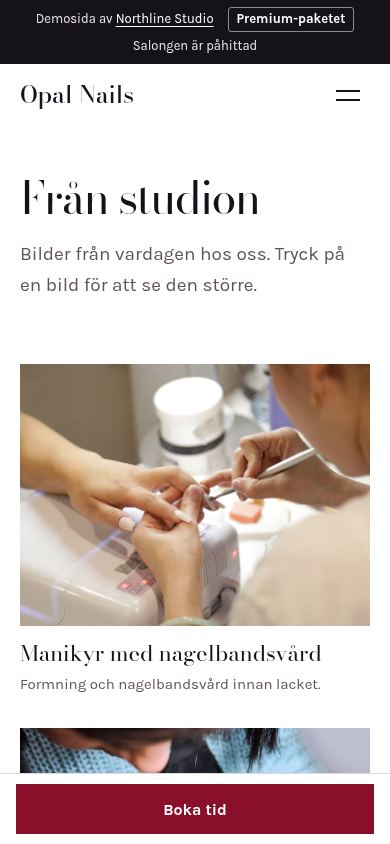
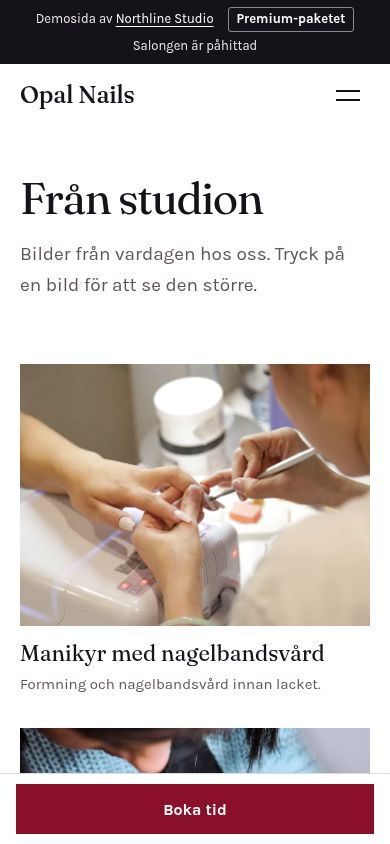
Startsida: nya bilder av Opal Nails med det nya typsnittet
Claude-Session: https://claude.ai/code/session_01LdaxLP72ybHRKE178dbyFp

diff --git a/index.html b/index.html
@@ -180,8 +180,8 @@
       </div>
 
       <div class="wrap hero__show" data-load style="--d:520ms">
-        <div class="screen screen--desk hero__desk"><img src="assets/demo-opal-dator.jpg" width="1440" height="900" alt="Demosidan Opal Nails i dator" fetchpriority="high"></div>
-        <div class="screen screen--phone hero__phone"><span class="screen__inner"><img src="assets/demo-opal-mobil.jpg" width="390" height="844" alt="Opal Nails i mobilen"></span></div>
+        <div class="screen screen--desk hero__desk"><img src="assets/demo-opal-dator.jpg?v=2" width="1440" height="900" alt="Demosidan Opal Nails i dator" fetchpriority="high"></div>
+        <div class="screen screen--phone hero__phone"><span class="screen__inner"><img src="assets/demo-opal-mobil.jpg?v=2" width="390" height="844" alt="Opal Nails i mobilen"></span></div>
       </div>
 
       <dl class="wrap facts" data-load style="--d:540ms">
@@ -257,10 +257,10 @@
           </div>
           <div class="demo__media">
             <div class="screen screen--desk scroller" data-reveal="shutter">
-              <img class="scroller__img" style="animation-timeline: --opal" src="assets/demo-opal-hel.jpg" width="900" height="2163" alt="Startsidan för demosidan Opal Nails i dator" loading="lazy">
+              <img class="scroller__img" style="animation-timeline: --opal" src="assets/demo-opal-hel.jpg?v=2" width="900" height="2161" alt="Startsidan för demosidan Opal Nails i dator" loading="lazy">
             </div>
             <div class="screen screen--phone demo__phone" data-reveal="shutter" style="--i:2">
-              <span class="screen__inner"><img src="assets/demo-opal-galleri-mobil.jpg" width="390" height="844" alt="Galleriet på Opal Nails i mobilen" loading="lazy"></span>
+              <span class="screen__inner"><img src="assets/demo-opal-galleri-mobil.jpg?v=2" width="390" height="844" alt="Galleriet på Opal Nails i mobilen" loading="lazy"></span>
             </div>
           </div>
         </div>
@@ -394,13 +394,13 @@
     <section class="contact" id="kontakt" aria-labelledby="kontakt-title">
       <div class="strip" aria-hidden="true">
         <div class="strip__track">
-          <img src="assets/demo-opal-dator.jpg" width="1440" height="900" alt="" loading="lazy">
+          <img src="assets/demo-opal-dator.jpg?v=2" width="1440" height="900" alt="" loading="lazy">
           <img src="assets/demo-ljung-mobil.jpg?v=2" width="390" height="844" alt="" loading="lazy">
           <img src="assets/demo-kvarn-dator.jpg" width="1440" height="900" alt="" loading="lazy">
           <img src="assets/demo-ljung-dator.jpg" width="1440" height="900" alt="" loading="lazy">
-          <img src="assets/demo-opal-galleri-mobil.jpg" width="390" height="844" alt="" loading="lazy">
+          <img src="assets/demo-opal-galleri-mobil.jpg?v=2" width="390" height="844" alt="" loading="lazy">
           <img src="assets/demo-kvarn-mobil.jpg?v=2" width="390" height="844" alt="" loading="lazy">
-          <img src="assets/demo-opal-mobil.jpg" width="390" height="844" alt="" loading="lazy">
+          <img src="assets/demo-opal-mobil.jpg?v=2" width="390" height="844" alt="" loading="lazy">
         </div>
       </div>
       <div class="wrap contact__inner">
